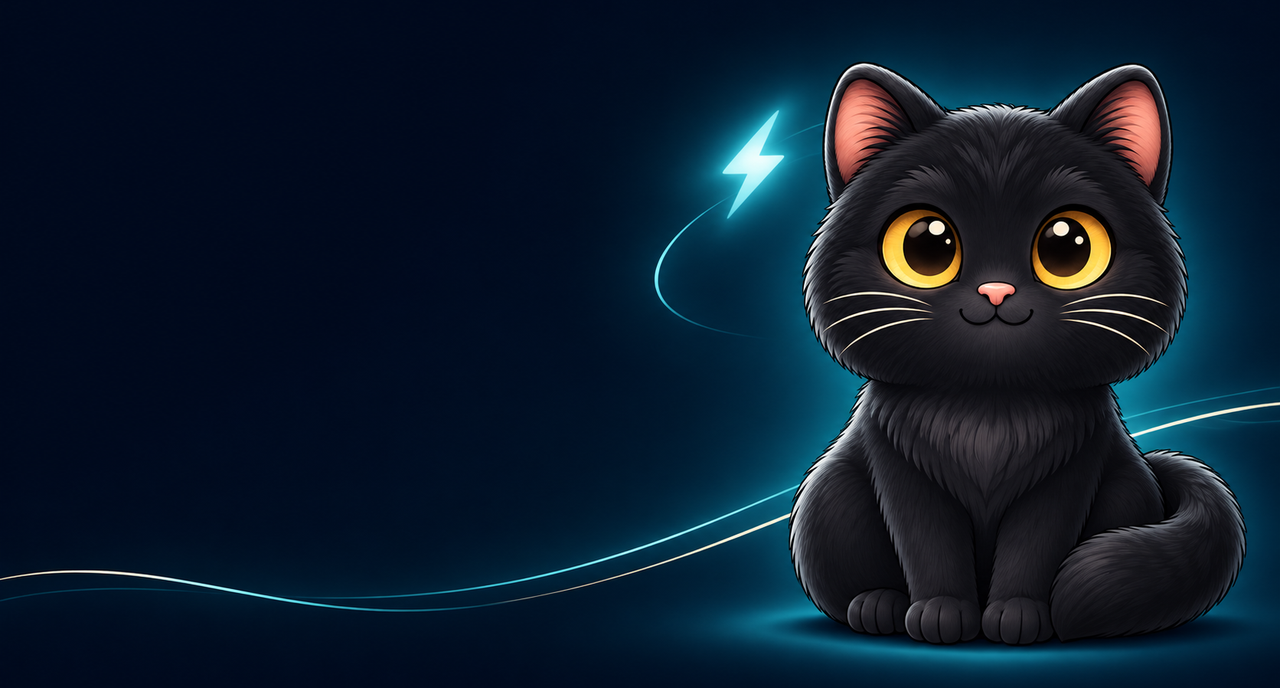
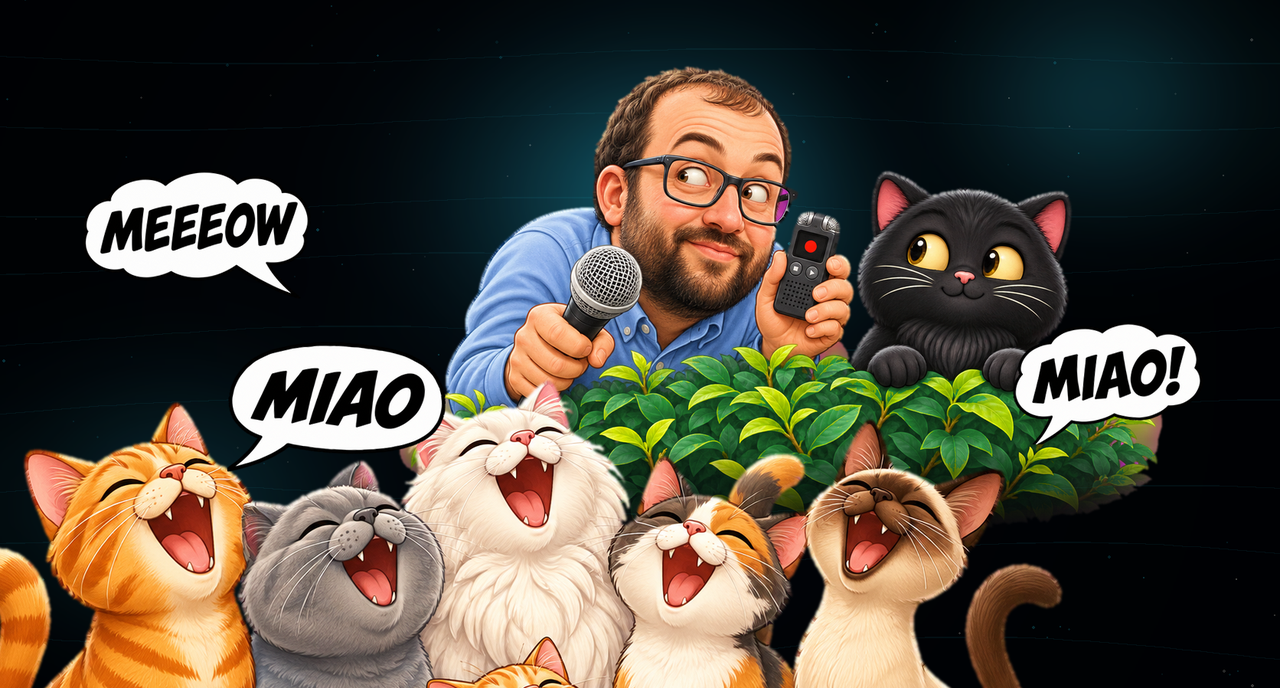
feat(brand): comic splash with a singing cat crowd
The black cat and the reporter peek from the bushes while six cats shout
MIAO in the foreground. Bubbles are generated artwork, keyed off their
background and placed by their own tails.

The title scrim is shorter and confined to the left so it no longer dims
the duo, and the bush cutout is feathered at the bottom.

diff --git a/client-windows/src/GangioKeet.Client/Ui/SplashWindow.xaml b/client-windows/src/GangioKeet.Client/Ui/SplashWindow.xaml
@@ -23,10 +23,22 @@
             </Border.Background>
         </Border>
 
- <StackPanel VerticalAlignment="Center" HorizontalAlignment="Left" Margin="40,0,0,0">
- <TextBlock Text="ChattyNeko" FontSize="36" FontWeight="SemiBold" Foreground="#F5F1E6" />
- <TextBlock Text="Dettatura locale. Nessun cloud." FontSize="13" Foreground="#C9C4B6" Margin="0,8,0,0" />
- </StackPanel>
+        <!-- Il coro di gatti occupa il centro: il titolo sta in alto a sinistra,
+             dove l'immagine è vuota, con una sfumatura che lo tiene leggibile. -->
+        <Border VerticalAlignment="Top" Height="118" HorizontalAlignment="Left" Width="620">
+            <Border.Background>
+                <LinearGradientBrush StartPoint="0,0" EndPoint="0,1">
+                    <GradientStop Color="#8C000814" Offset="0" />
+                    <GradientStop Color="#40000814" Offset="0.55" />
+                    <GradientStop Color="#00000814" Offset="1" />
+                </LinearGradientBrush>
+            </Border.Background>
+        </Border>
+
+        <StackPanel VerticalAlignment="Top" HorizontalAlignment="Left" Margin="40,26,0,0">
+            <TextBlock Text="ChattyNeko" FontSize="34" FontWeight="SemiBold" Foreground="#F5F1E6" />
+            <TextBlock Text="Dettatura locale. Nessun cloud." FontSize="13" Foreground="#C9C4B6" Margin="2,6,0,0" />
+        </StackPanel>
 
         <Border VerticalAlignment="Bottom"
                 Height="3"
